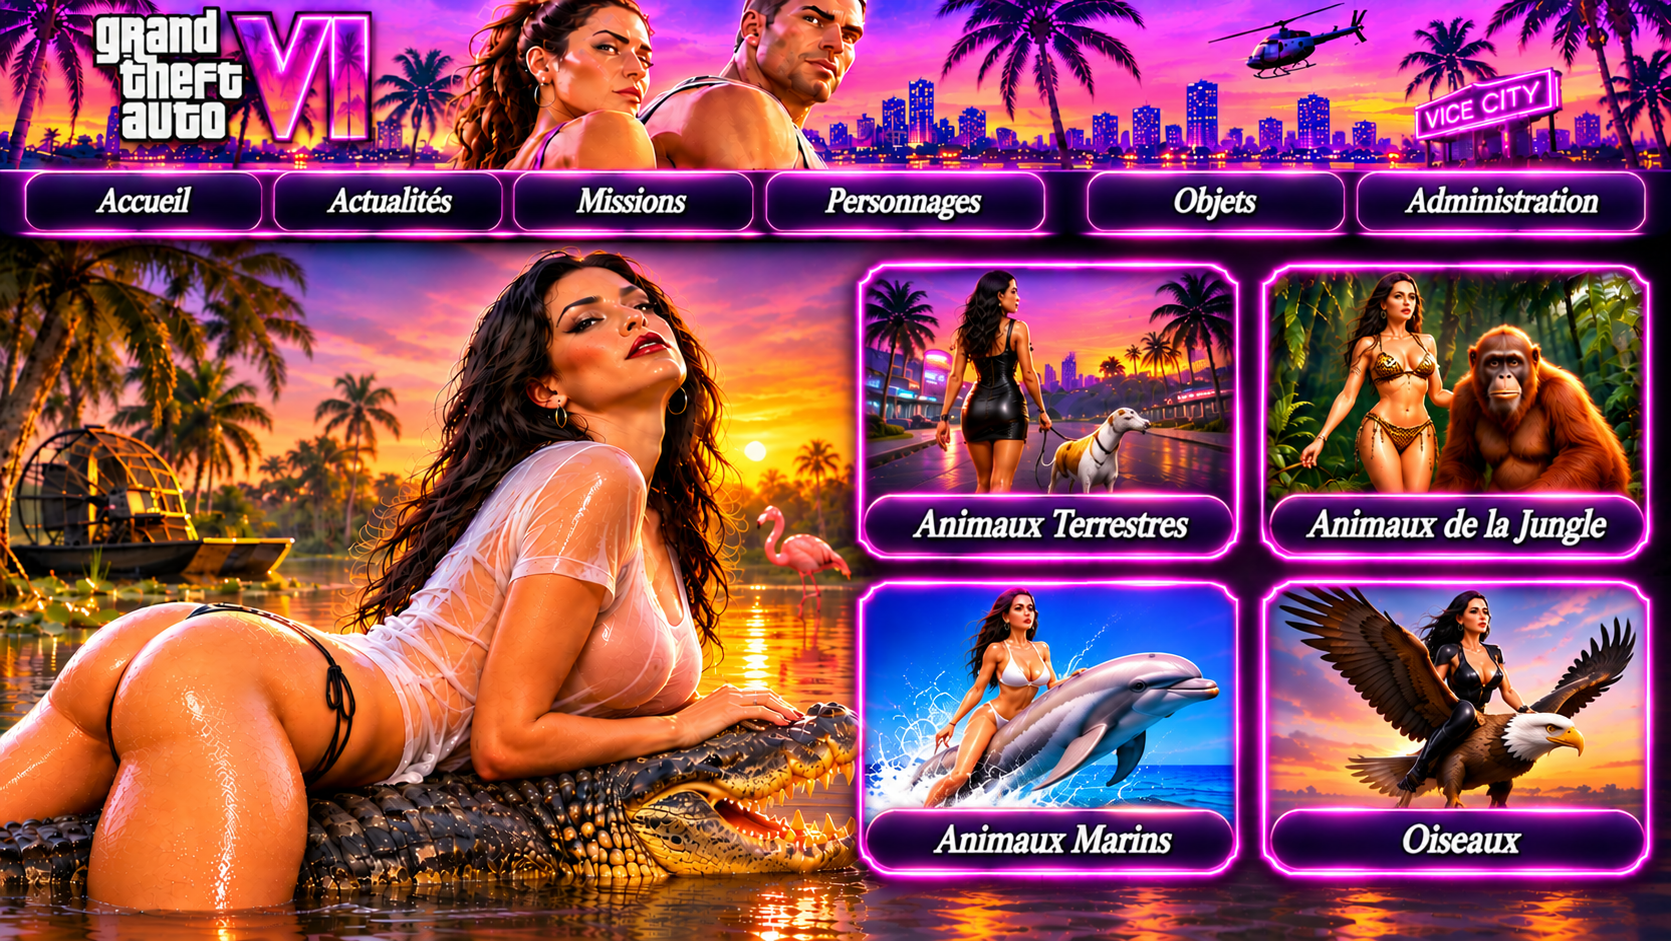
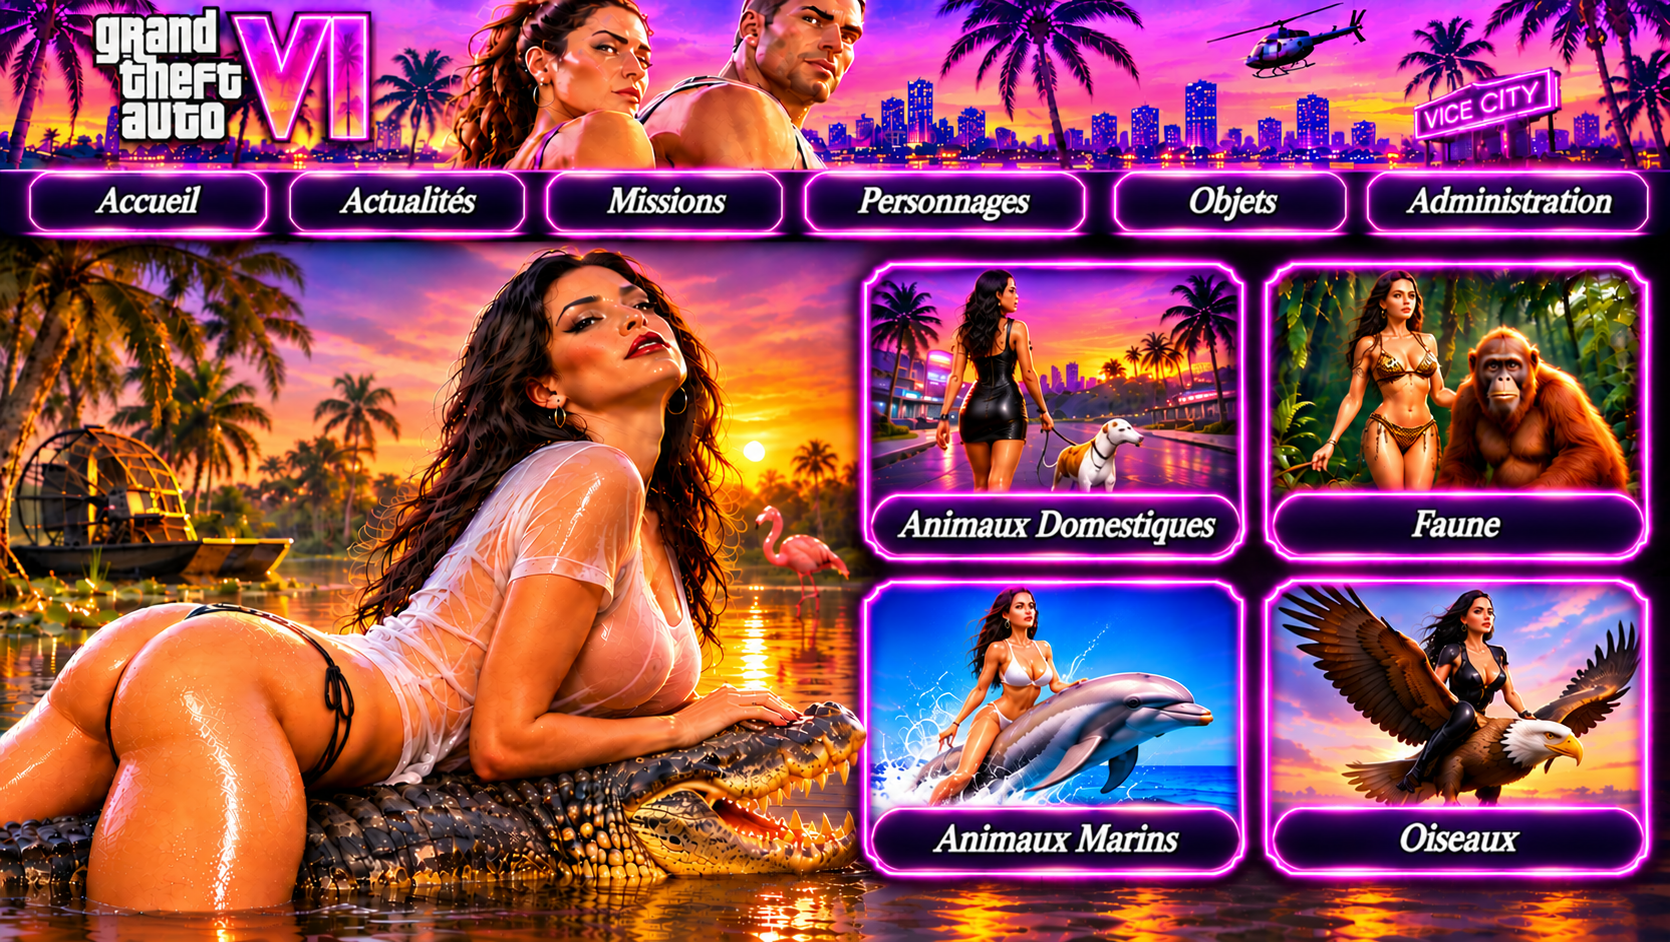
Add files via upload

diff --git a/animaux.html b/animaux.html
@@ -2,16 +2,16 @@
 <html lang="fr"><head><meta charset="utf-8"><meta name="viewport" content="width=device-width,initial-scale=1"><title>Animaux — Le Carnet de Leonida</title>
 <style>
 *{box-sizing:border-box}html,body{margin:0;min-height:100%;background:#16051e;color:white}.stage{position:relative;width:min(100%,1671px);margin:0 auto}.stage img{display:block;width:100%;height:auto}.hotspot{position:absolute;display:block;border-radius:12px;text-decoration:none;cursor:pointer}.hotspot:hover,.hotspot:focus-visible{outline:2px solid #ff8de9;outline-offset:-2px;box-shadow:0 0 22px #f600d9;}
-/* Positionnements relatifs au visuel validé, 1671 × 941 */
-</style></head><body><main class="stage"><img src="animaux.png" width="1671" height="941" alt="Accueil des animaux de Leonida : Mortitia avec un alligator et quatre catégories d'animaux">
+/* Positionnements relatifs au visuel validé, 1670 × 942 */
+</style></head><body><main class="stage"><img src="animaux.png" width="1670" height="942" alt="Accueil des animaux de Leonida : Mortitia avec un alligator et quatre catégories d'animaux">
 <a class="hotspot" href="index.html" aria-label="Accueil" style="left:1.5%;top:18.1%;width:14.1%;height:6.5%"></a>
 <a class="hotspot" href="actualites.html" aria-label="Actualités" style="left:16.2%;top:18.1%;width:14.1%;height:6.5%"></a>
 <a class="hotspot" href="missions.html" aria-label="Missions" style="left:30.8%;top:18.1%;width:14.1%;height:6.5%"></a>
 <a class="hotspot" href="personnages.html" aria-label="Personnages" style="left:45.5%;top:18.1%;width:16.4%;height:6.5%"></a>
 <a class="hotspot" href="objets.html" aria-label="Objets" style="left:62.5%;top:18.1%;width:17.3%;height:6.5%"></a>
 <a class="hotspot" href="admin.html" aria-label="Administration" style="left:80.4%;top:18.1%;width:17.4%;height:6.5%"></a>
-<a class="hotspot" href="animaux-terrestres.html" aria-label="Animaux terrestres" style="left:51%;top:27.7%;width:22.8%;height:31.3%"></a>
-<a class="hotspot" href="animaux-jungle.html" aria-label="Animaux de la jungle" style="left:75%;top:27.7%;width:22.7%;height:31.3%"></a>
+<a class="hotspot" href="animaux-domestiques.html" aria-label="Animaux domestiques" style="left:51%;top:27.7%;width:22.8%;height:31.3%"></a>
+<a class="hotspot" href="animaux-faune.html" aria-label="Faune" style="left:75%;top:27.7%;width:22.7%;height:31.3%"></a>
 <a class="hotspot" href="animaux-marins.html" aria-label="Animaux marins" style="left:51%;top:61%;width:22.8%;height:31.3%"></a>
 <a class="hotspot" href="animaux-oiseaux.html" aria-label="Oiseaux" style="left:75%;top:61%;width:22.7%;height:31.3%"></a>
 </main></body></html>
